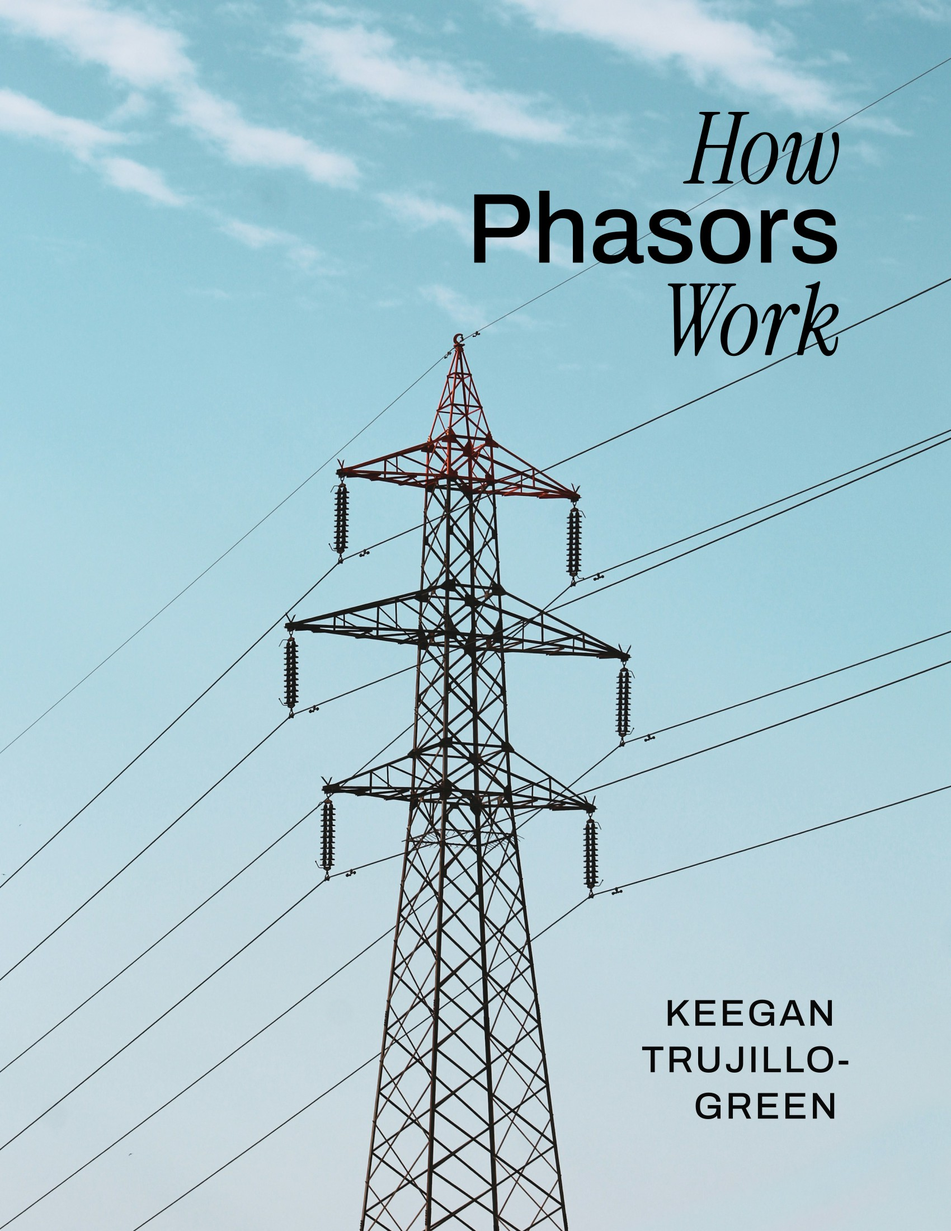
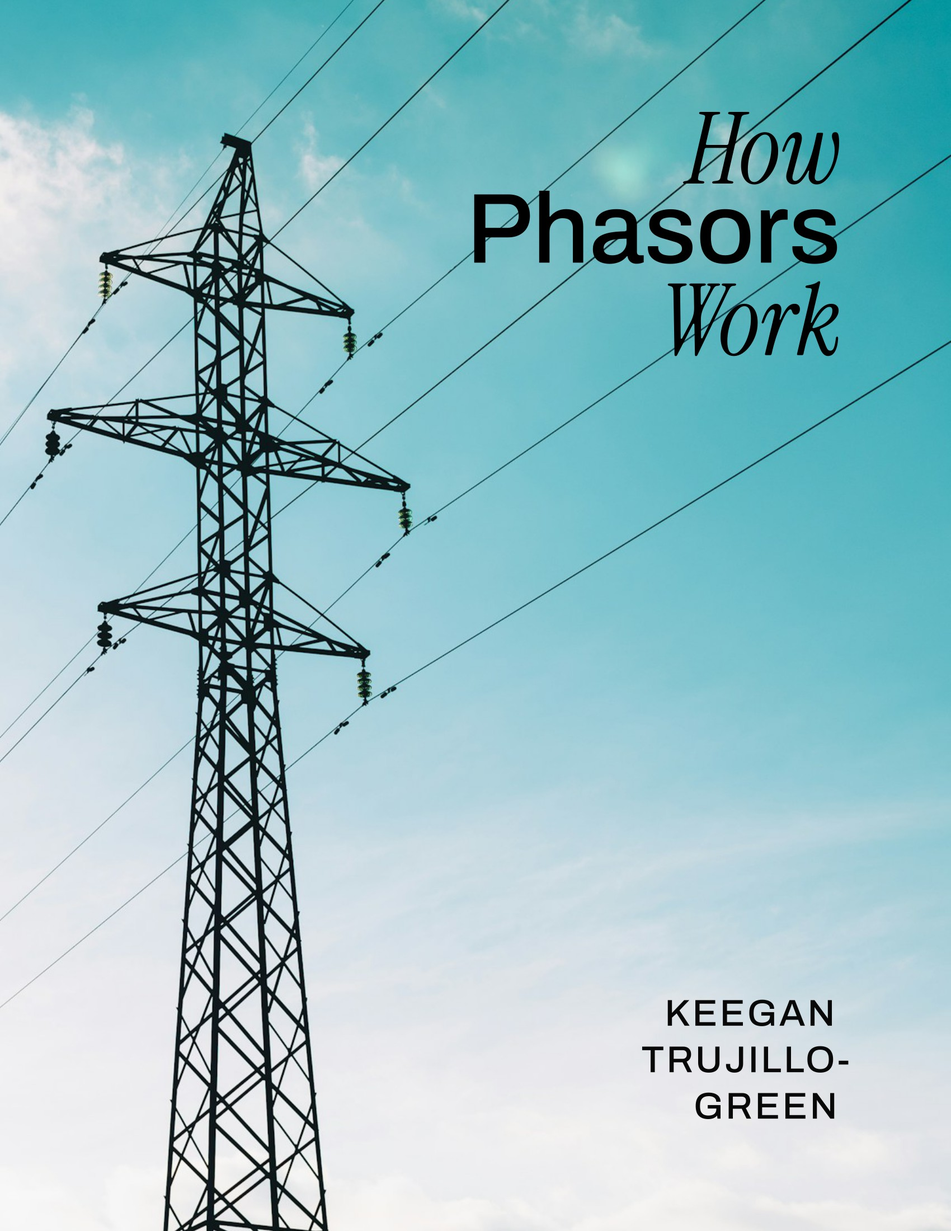
update readme

diff --git a/README.md b/README.md
@@ -1,16 +1,30 @@
 # How Phasors Work
 
-[Web](https://keeganmjgreen.github.io/how_phasors_work) | [PDF](https://raw.githubusercontent.com/keeganmjgreen/how_phasors_work/refs/heads/main/how_phasors_work.pdf)
-
 An electrical engineering book about phasors and applying AC circuit analysis to the electrical grid.
 
-![](img/cover.jpg)
+[Web](https://keeganmjgreen.github.io/how_phasors_work) | [PDF](https://raw.githubusercontent.com/keeganmjgreen/how_phasors_work/refs/heads/main/how_phasors_work.pdf)
+
+![](img/pdf_fanout.png)
+
+## Chapters
+
+- [Introduction](https://keeganmjgreen.github.io/how_phasors_work/introduction/)<br>Basics of DC versus AC power and resistive versus reactive loads.
+
+- [What is a Phasor?](https://keeganmjgreen.github.io/how_phasors_work/what-is-a-phasor/)<br>Relationship between sinusoids and phasors. Deriving the concept of phasors. Formal phasor transformation and notation.
+
+- [Life With and Without Phasors: Example Circuit Analysis](https://keeganmjgreen.github.io/how_phasors_work/life-with-and-without-phasors/)<br>Seeing the benefits of phasors in practice over differential equations and the Laplace transform.
+
+- [Complex Power and the Power Factor](https://keeganmjgreen.github.io/how_phasors_work/complex-power-and-the-power-factor/)<br>Deriving complex power and the power triangle from time-domain instantaneous power. Power factor and power factor correction.
+
+- [Three-Phase Power](https://keeganmjgreen.github.io/how_phasors_work/three-phase-power/)<br>Motivation for three-phase power. Wye versus delta configurations. Three-phase power in the grid.
+
+- [Grid Modeling](https://keeganmjgreen.github.io/how_phasors_work/grid-modeling/)<br>Bus injection model. Power flow, optimal power flow, economic dispatch, and unit commitment problems.
 
 This book is a work in progress. Existing chapters will be revised, and new chapters will be added. Readers are encouraged to provide feedback in [Issues](https://github.com/keeganmjgreen/how_phasors_work/issues).
 
-Cover image by Rodion Kutsaiev on Unsplash.
+---
 
-© 2025&ndash;2026 Keegan Green
+© 2025&ndash;2026 Keegan Green. Written without AI.
 
 ## Development
 
